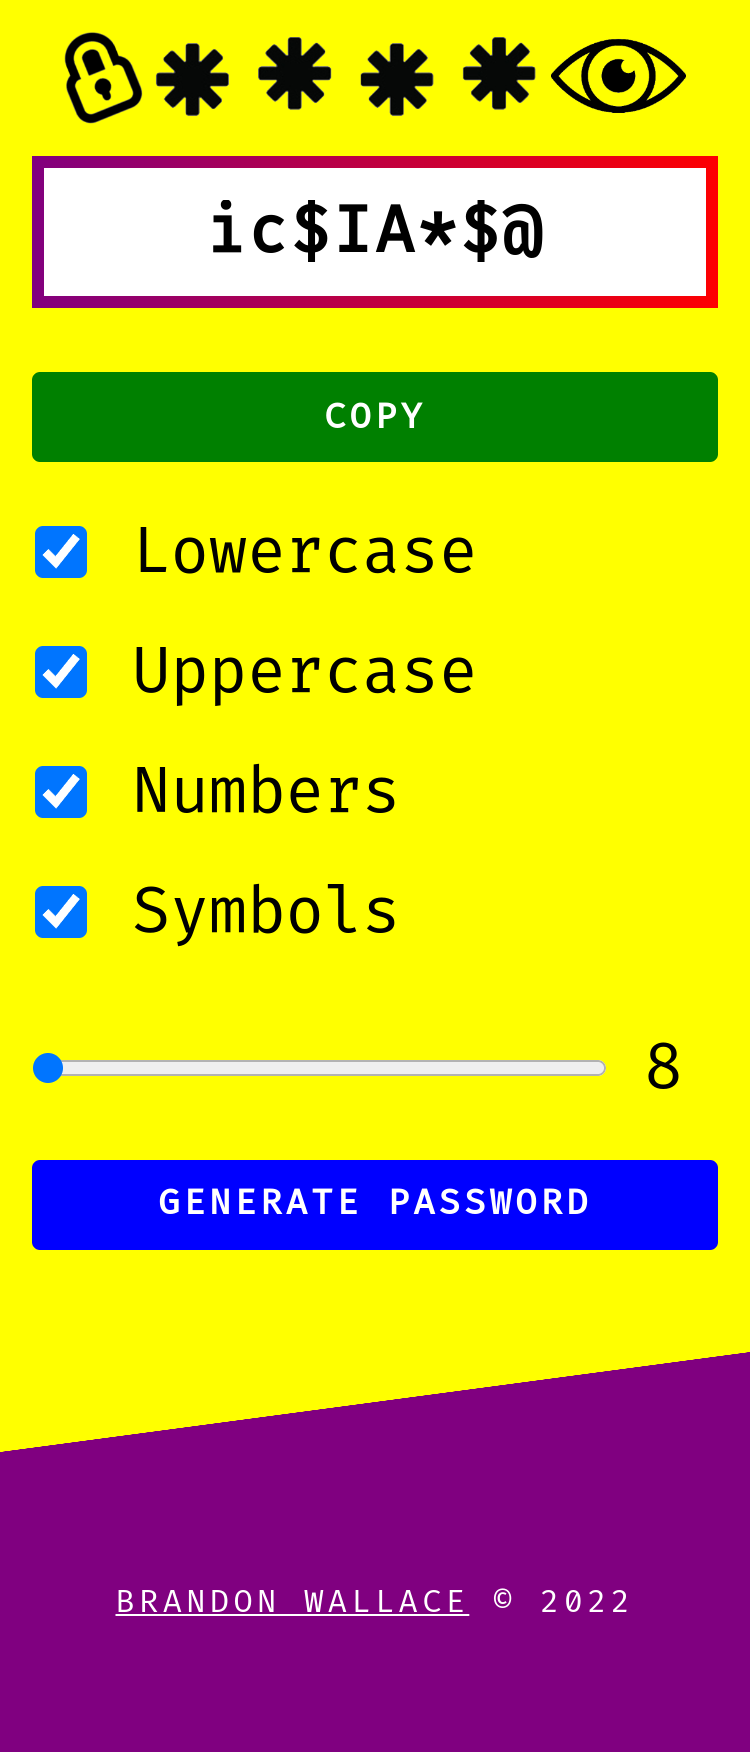
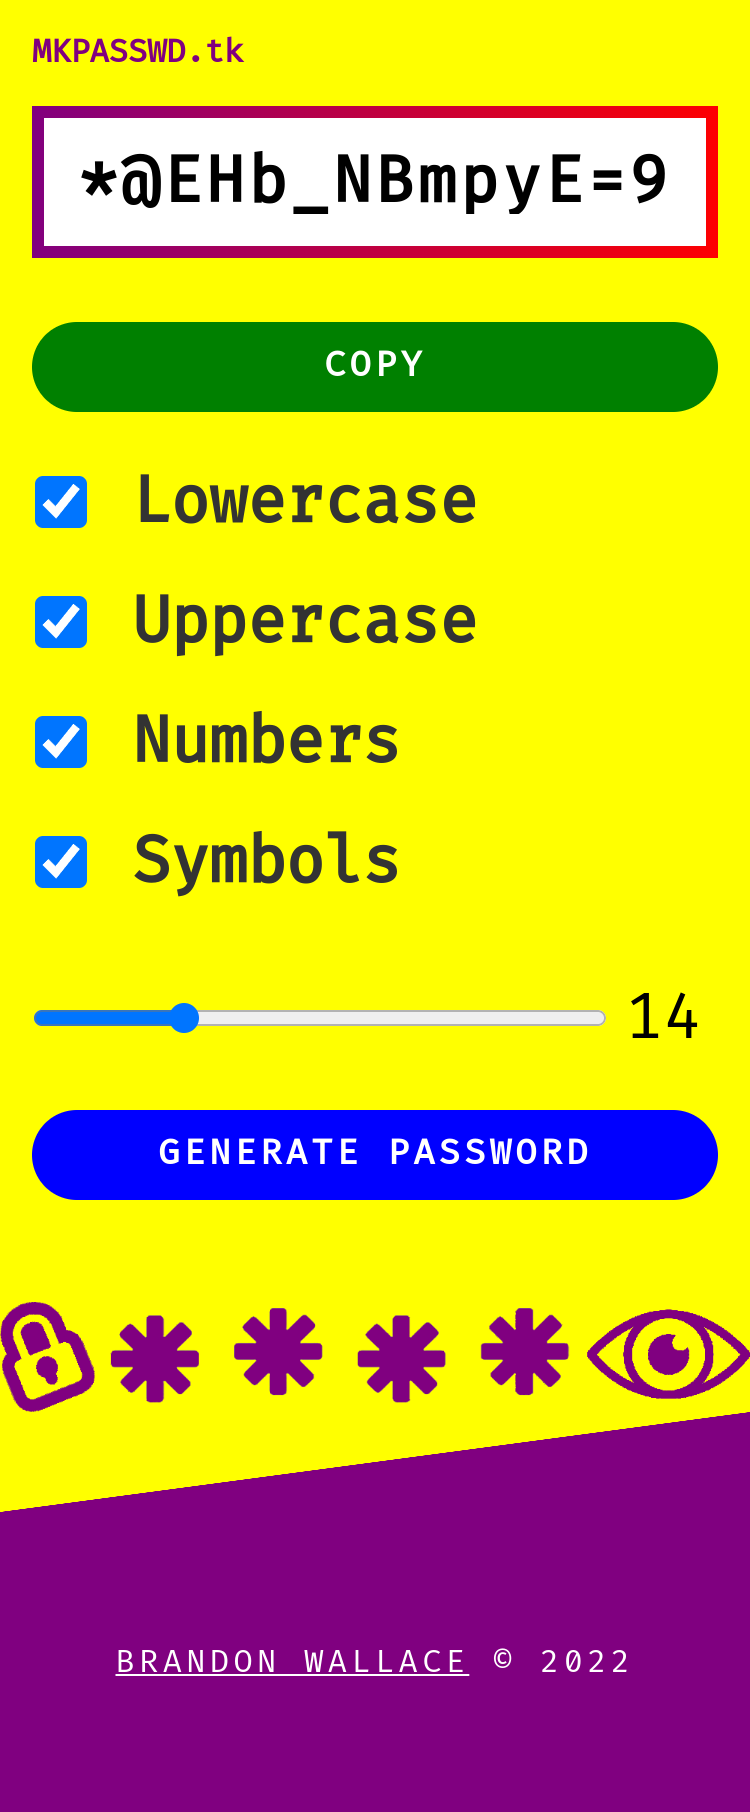
Redesign frontend

diff --git a/css/style.css b/css/style.css
@@ -66,7 +66,15 @@ a {
 }
 
 header {
-    padding: 1em 2em 0 2em;
+    padding: 1em 1em 0 1em;
+}
+
+.header-title {
+    color: purple;
+    margin: 0 auto;
+    max-width: 1000px;
+    font-size: 1rem;
+    font-weight: bold;
 }
 
 main {
@@ -106,7 +114,9 @@ input {
 
 label {
     display: block;
+    color: #333333;
     font-size: 2rem;
+    font-weight: bold;
     line-height: 20px;
     padding-left: 50px;
     vertical-align: middle;
@@ -130,16 +140,6 @@ input[type="number"] {
     top: 0;
     left: 0;
 }
-
-/*
-input[type="range"]::-webkit-slider-runnable-track {
-    background: red;
-}
-
-input[type="range"]::-moz-range-track {
-    background: red;
-}
-*/
 
 .passwd-length {
     display: flex;
@@ -192,10 +192,12 @@ button {
 }
 
 .copy-btn {
+    border-radius: 24px;
     background-color: green;
 }
 
 .generate-btn {
+    border-radius: 24px;
     background-color: blue;
 }
 
@@ -211,14 +213,6 @@ footer {
     margin-top: auto;
     background-color: purple;
     position: relative;
-}
-
-.footer-image {
-    position: absolute;
-    top: -250px;
-    left: 0;
-    right: 0;
-    max-width: 90%;
 }
 
 footer p {

diff --git a/index.html b/index.html
@@ -26,11 +26,7 @@
 
     <header>
 
-      <!--
-      <h1>MKPASSWD.tk</h1>
-      -->
-
-      <img class="header-logo" src="images/logo4_1000.png" alt="password generator logo PNG">
+      <h1 class="header-title">MKPASSWD.tk</h1>
 
     </header>
 
@@ -66,6 +62,8 @@
     <!-- END main -->
 
     <!-- START footer -->
+    
+    <img class="header-logo" src="images/logo6_1000.png" alt="password generator logo PNG">
 
     <footer>
 
